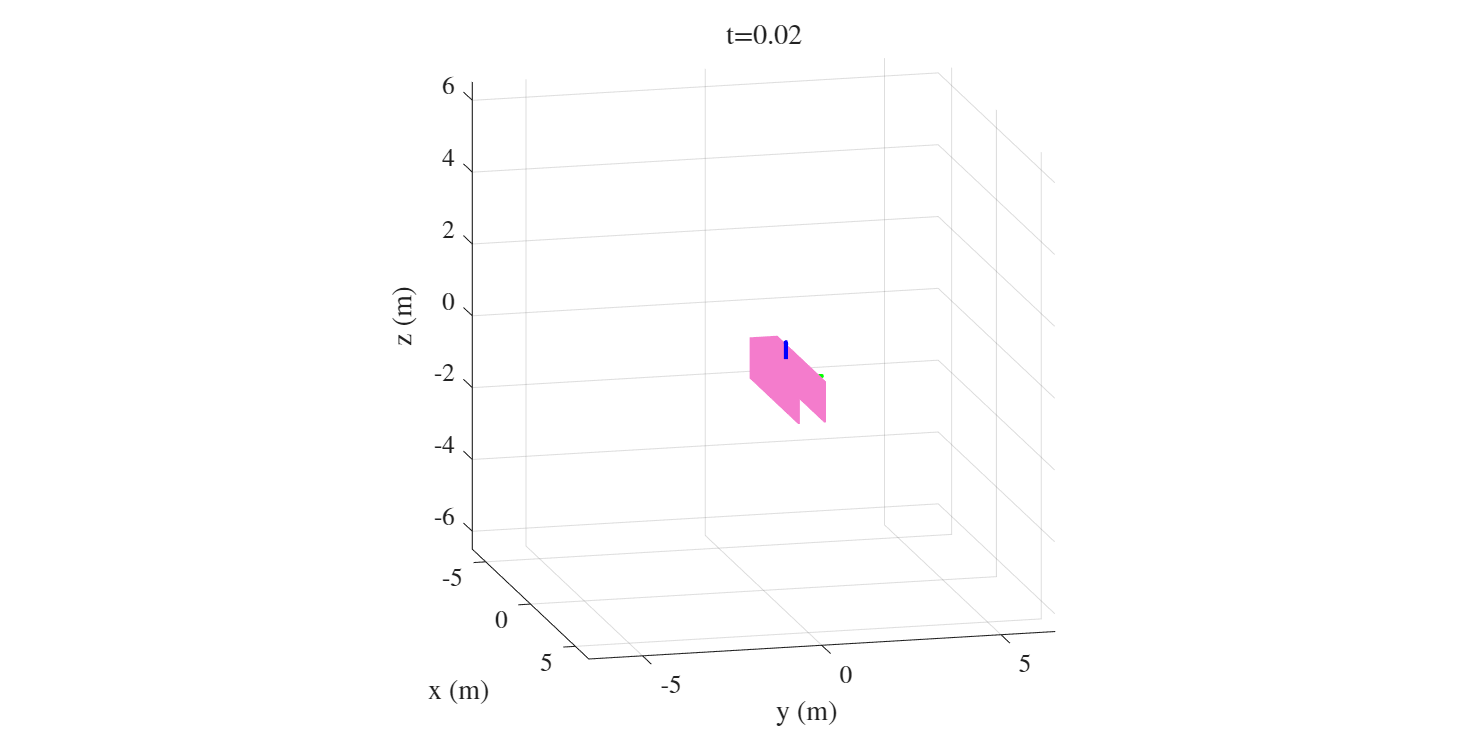
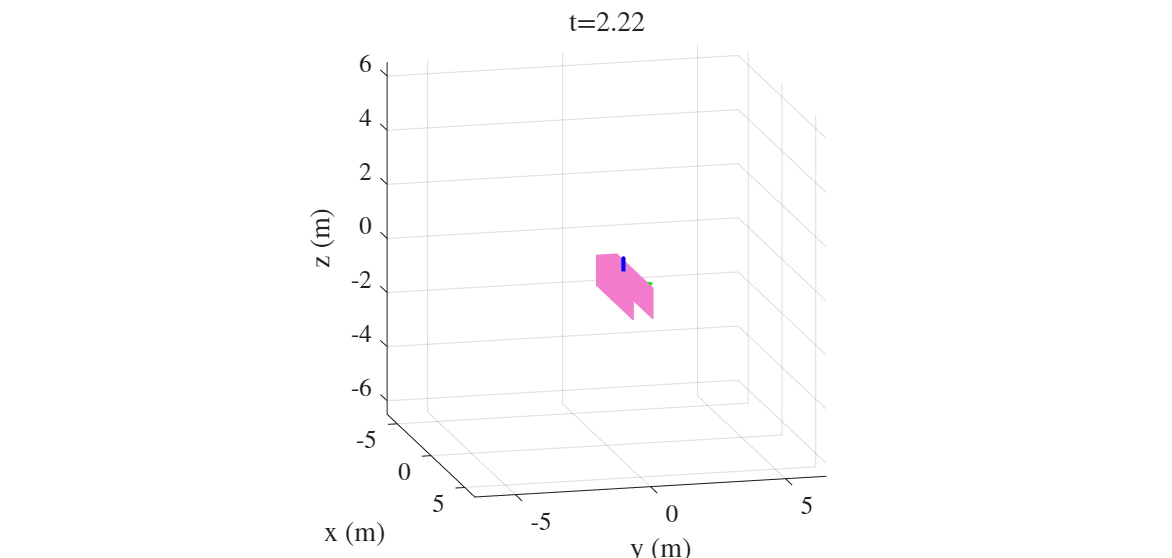
fixed mass gravity vector!

diff --git a/dynamics/DAESolverTorsionOnly.m b/dynamics/DAESolverTorsionOnly.m
@@ -2,8 +2,9 @@
 function [tvec_out, x_out, xdot_out, lam_out] = DAESolver(Linkage,y0,ydot0,nc,tf,dt,support,fixed_carriage)
     ndof = Linkage.ndof;
     ndof_mass = 6;
-    mass = 10.0;
-    I_mass=0.01;
+    mass = 10000.0;
+    com_offset = [0 1 1]; %from body frame
+    I_mass=0.0001;
 
     n_beam  = ndof;
     n_mass  = ndof_mass;
@@ -97,7 +98,7 @@ function [tvec_out, x_out, xdot_out, lam_out] = DAESolver(Linkage,y0,ydot0,nc,tf
         % ---------------------------
 
         I_body = diag([I_mass I_mass I_mass]);
-        Mm = body_inertia(mass, I_body, [0 0 0]);
+        Mm = body_inertia(mass, I_body, com_offset);
         
         Cm = dinamico_coadj(qd_mass) * Mm;
         
@@ -196,7 +197,7 @@ function [tvec_out, x_out, xdot_out, lam_out] = DAESolver(Linkage,y0,ydot0,nc,tf
             Jd_mass_corrected = Jd_mass_full(1:6,:);
         else
             %J_mass_corrected = [J_mass_full(1:3,:) ;J_mass_full(5:6,:)];
-            J_mass_corrected = [J_mass_full(1:3,:) ;J_mass_full(5:6,:)] + dphi_ds * ds_dq'; %correction
+            J_mass_corrected = [J_mass_full(1:3,:) ;J_mass_full(5:6,:)]; %+ dphi_ds * ds_dq'; %correction
             Jd_mass_corrected = [Jd_mass_full(1:3,:) ;Jd_mass_full(5:6,:)]; % + dphi_ds * ds_dq'; %correction
         end
         
@@ -238,23 +239,23 @@ function [tvec_out, x_out, xdot_out, lam_out] = DAESolver(Linkage,y0,ydot0,nc,tf
 
         F1 = q_dot - qd;
 
-        %F2 = M_full * qddot - (g_full - C_full - K_full - J_c' * lambda);
+        %F2 = M_full * qddot - (g_full - C_full - K_full - J_c' * lambda) +[zeros(Linkage.ndof,1);1000*t;0*t;0*t;0.0;0;0];
         
         %Rail Dynamics!
         F2 = Mb*qdd_b + ID - tau + J_c(:,1:n_beam)' * lambda;
 
         %carriage dynamics! (s
-        F3 =  Mm*qdd_mass + Cm * qd_mass - dinamico_Adjoint(ginv(T_here)) * mass * Linkage.G + J_c(:,n_beam+1:n_beam+n_mass)' * lambda +[100000*t;0;0;0.0;0;0];
-
+        F3 =  Mm*qdd_mass + Cm * qd_mass - Mm * dinamico_Adjoint(ginv(T_here)) * Linkage.G + J_c(:,n_beam+1:n_beam+n_mass)' * lambda;% +[10000*t;0*t;0*t;0.0;0;0];
+        
         %F4 = err_pos;
         %F4 = J_c * qd;
         %F4 = J_c * qddot + Jd_c*qd+ [Jd_qd; zeros(nc-5,1)];
         %F4 = J_c * qddot + [Jd_qd; Jd_L_full*qd ;Jd_0_full*qd ];
         %F4 = J_c * qddot + [Jd_qd; Jd_L_full*qd ;Jd_0_full*qd ];
 
-        %F4 = J_c * qddot + Jd_c*qd; %+ alpha*err_vel + beta*err_pos;
+        F4 = J_c * qddot + Jd_c*qd; %+ alpha*err_vel + beta*err_pos;
 
-        F4 = J_c * qddot + Jd_c*qd + alpha*err_vel + beta*err_pos;
+        %F4 = J_c * qddot + Jd_c*qd + alpha*err_vel + beta*err_pos;
        
         % if cond(J_c) > 1e6
         %     warning('J_c near singular at t=%g', t);
@@ -264,7 +265,10 @@ function [tvec_out, x_out, xdot_out, lam_out] = DAESolver(Linkage,y0,ydot0,nc,tf
         %     warning('M_full ill-conditioned at t=%g', t);
         % end
 
-        F = [F1;F2;F3;F4];
+        F = [F1;
+            F2;
+            F3;
+            F4];
     end
 
     tspan = [0 tf];
@@ -280,7 +284,7 @@ function [tvec_out, x_out, xdot_out, lam_out] = DAESolver(Linkage,y0,ydot0,nc,tf
     % ydot0, [false(2*n,1); true(nc,1)]);
       [y0_consistent, ydot0_consistent] = decic( ...
              @dae_fun, 0, ...
-             y0, [true(n_beam,1); true(n_mass,1); false(n_beam,1); false(n_mass,1); false(nc,1)], ...
+             y0, [true(n_beam,1); true(n_mass,1); true(n_beam,1); true(n_mass,1); false(nc,1)], ...
              ydot0, [false(2*n,1); true(nc,1)]);
     % 
     % ----------------------------

diff --git a/simulation_script_torsion_only.m b/simulation_script_torsion_only.m
@@ -11,7 +11,8 @@ run("RailParameters.m")
 ndof = RailLinkage.ndof+6;
 q_b0 = zeros(RailLinkage.ndof,1);
 s0 = 2.5;
-tf = 1.0;
+%s0 = 12.5;
+tf = 2.22;%1.2; %
 dt = 0.001;
 
 %Plot strain basis functions
@@ -57,6 +58,7 @@ end
 support = "fixed-fixed"; 
 %nc = nc_carriage + 12;
 nc = nc_carriage + 7;
+%nc = nc_carriage + 6;
 
 %[tvec_out, x_out, xdot_out] = Baumgarte(RailLinkage,x0,tf,dt,support);
 
@@ -66,10 +68,15 @@ ydot0 = zeros(size(y0));
 
 [tvec_out, x_out, xdot_out, lam_out] = DAESolverTorsionOnly(RailLinkage,y0,ydot0,nc,tf,dt,support,fixed_carriage);
 
-x_test = x0;
-x_test(7:9)=1;
-plotRail(RailLinkage,x_test);
+% x_test = x0;
+% x_test(7:9)=1;
+% plotRail(RailLinkage,x_out(end,:));
 
 AnimateRail(RailLinkage, tvec_out, x_out)
 
 plotResults(tvec_out, x_out, dt, RailLinkage)
+
+plotq(RailLinkage,x_out(end,1:RailLinkage.ndof))
+plotRail(RailLinkage,x_out(end,1:RailLinkage.ndof))
+
+FwdKinematicsAtS(RailLinkage,x_out(end,:),s0)

diff --git a/link/RailParameters.m b/link/RailParameters.m
@@ -8,8 +8,9 @@ function RailLink = makeRailLink()
     
     CS = 'R'; %'C' for circular, 'R' for circular, 'E' for circular
     L = 5.415;
+    %L = 25.415;
     Rho = 1000;
-    E = 6.9e7;
+    E = 6.9e6;
     Poi = 0.33;
     G =  E/(2*(1+Poi));
     Eta = 1e6;
@@ -25,9 +26,8 @@ function RailLink = makeRailLink()
     tw = 0.05; %web thickness
     tf = 0.05; %flange thickness
    
-    [M,cx] = CCrossSectProperties(L,Rho,h,w,tw,tf);
-    % [M,cx] = RigidBodyProperties(CS,L,Rho,h,w); %for rectangular cross section
-    % [M,cx] = RigidBodyProperties(CS,L,Rho,a,b); %for elliptical cross section
+    %[M,cx] = CCrossSectProperties(L,Rho,h,w,tw,tf);
+     [M,cx] = RigidBodyProperties(CS,L,Rho,h,w); %for rectangular cross section
     
     RailLink.ld{1}=L;
     RailLink.L= L;

diff --git a/kinematics/ProjectS.m b/kinematics/ProjectS.m
@@ -113,7 +113,7 @@ function s = ProjectS(Linkage, q_b, q_c, s_prev)
     % % clamp
     % s = max(0, min(L, s));
     
-    for k = 1:8
+    for k = 1:2
         T = FwdKinematicsAtS(Linkage, q_b, s);
         p_b = T(1:3,4);
         t = T(1:3,1);
